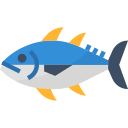
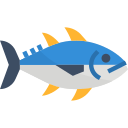
Implemented fish img changing direction according to moving direction.

Changed region(s): [[0.0, 0.1875, 1.0, 0.8125]]

diff --git a/Fish.py b/Fish.py
@@ -63,11 +63,14 @@ class Fish:
         # Turn if reached screen border
         if self.pos[0] >= WIDTH or self.pos[0] <= 0:
             self.direction_horizontal *= -1
+            self.img = pygame.transform.flip(self.img, True, False)
         if self.pos[1] >= HEIGHT or self.pos[1] <= 0:
             self.direction_vertical *= -1
 
 
     def follow_swim(self, all_fish):
+        '''Fish find nearest smaller fish and moves towards it.\n
+        Direction of fish img changes accordingly to moving direction. After cathing the target, fish contiues to swim in the direction which was just before catching target.'''
         # FINDING TARGET (nearest smaller fish) if not found already or previous target died or previous target got too big
         if not self.following_target or not self.following_target.alive or self.following_target.area() > self.area():
             self.following_target = self.find_nearest_target(all_fish)
@@ -80,15 +83,25 @@ class Fish:
         else:
             # Changing coordinates to be closer to target
             # x axis
+            old_direction_horizontal = self.direction_horizontal
             if self.following_target.pos[0] < self.pos[0]:
-                self.change_pos(-self.speed/2, 0)
+                self.direction_horizontal = -1
             else:
-                self.change_pos(self.speed/2, 0)
+                self.direction_horizontal = 1
+            # Changing img direction if needed
+            if old_direction_horizontal != self.direction_horizontal:
+                self.img = pygame.image.load(self.img_path)
+                self.img = pygame.transform.scale(self.img, (self.size[0], self.size[1]))
+                if self.direction_horizontal == -1:
+                    self.img = pygame.transform.flip(self.img, True, False)
+
             # y axis
             if self.following_target.pos[1] < self.pos[1]:
-                self.change_pos(0, -self.speed/2)
+                self.direction_vertical = -1
             else:
-                self.change_pos(0, self.speed/2)
+                self.direction_vertical = 1
+
+            self.change_pos(self.direction_horizontal * self.speed/2, self.direction_vertical * self.speed/2)
 
             # CHECKING IF FISH CAUGHT UP THE TARGET
             if self.check_if_overlapping(self.following_target):
@@ -133,6 +146,8 @@ class Fish:
         self.size = new_size
         self.img = pygame.image.load(self.img_path)
         self.img = pygame.transform.scale(self.img, (self.size[0], self.size[1]))
+        if self.direction_horizontal == -1:
+            self.img = pygame.transform.flip(self.img, True, False)
         # Also updates img_pos (when growing, center stays in the same place, but top left corner of img changes)
         self.img_pos = [self.pos[0] - self.size[0]/2, self.pos[1] - self.size[1]/2]
 
